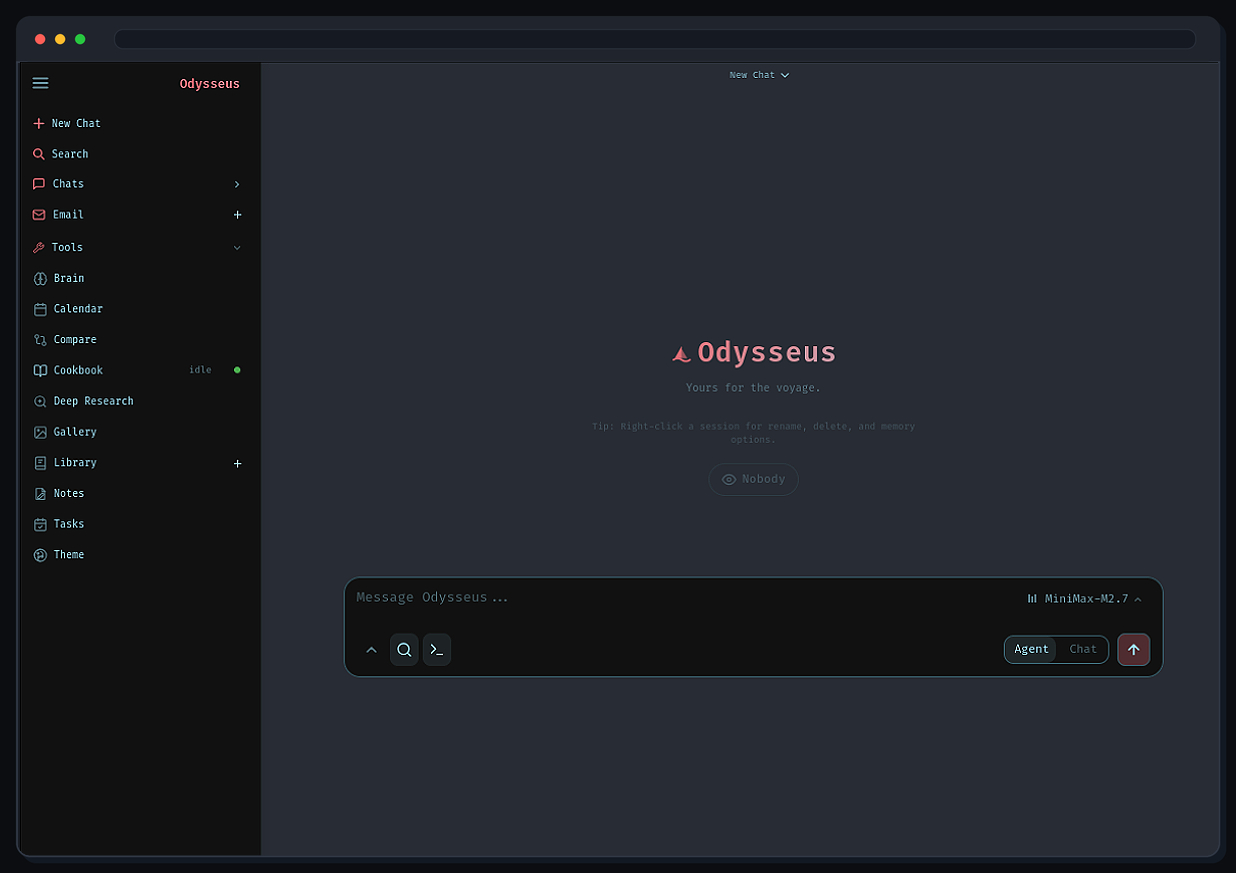
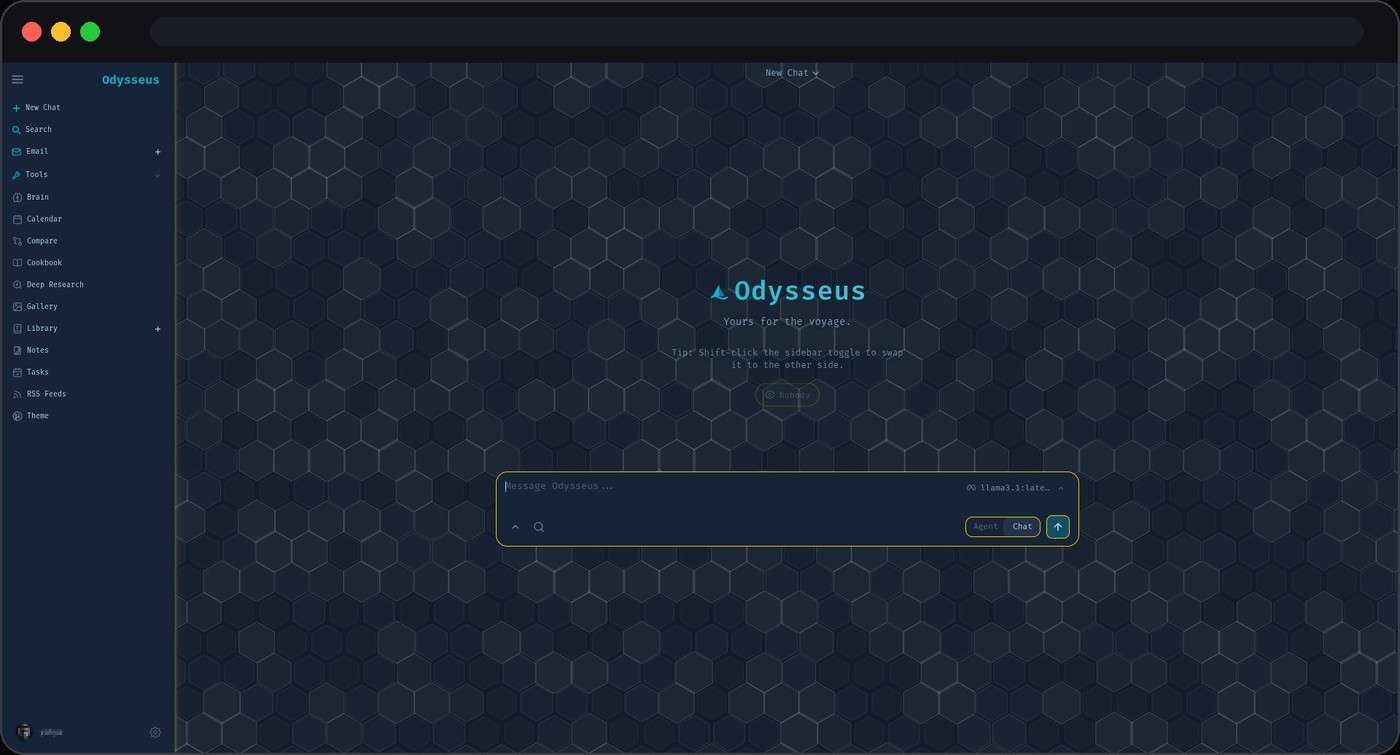
fix(ui): improve welcome-screen text contrast, refresh README screenshot and features
welcome-sub/welcome-tip/welcome-version relied on flat opacity (as low as
0.2), which washed out to unreadable against busy background patterns like
the hex grid. Replaced with color-mix against --fg plus a text-shadow halo
derived from --bg, so contrast holds regardless of the active theme/pattern.

Also refreshes the README screenshot (Navyseal theme, current sidebar) and
updates the feature list for the provider count, llama.cpp auto-detection,
and background animation count.

diff --git a/static/style.css b/static/style.css
@@ -1943,22 +1943,23 @@ body.bg-pattern-sparkles {
     }
     #welcome-screen .welcome-sub {
       font-size:0.85rem;
-      color:color-mix(in srgb, var(--fg) 60%, transparent);
-      opacity:0.6;
+      color:color-mix(in srgb, var(--fg) 65%, transparent);
+      text-shadow: 0 0 6px var(--bg), 0 0 14px var(--bg);
       line-height:1.5;
       max-width:300px;
     }
     #welcome-screen .welcome-version {
       font-size:0.7rem;
-      opacity:0.25;
+      color:color-mix(in srgb, var(--fg) 45%, transparent);
+      text-shadow: 0 0 6px var(--bg), 0 0 14px var(--bg);
       margin-top:12px;
       pointer-events:none;
       user-select:none;
     }
     #welcome-screen .welcome-tip {
       font-size:0.75rem;
-      color:var(--fg);
-      opacity:0.2;
+      color:color-mix(in srgb, var(--fg) 55%, transparent);
+      text-shadow: 0 0 6px var(--bg), 0 0 14px var(--bg);
       margin-top:24px;
       max-width:320px;
       line-height:1.4;

diff --git a/README.md b/README.md
@@ -40,15 +40,15 @@ Native installs, GPU notes, Windows/macOS instructions, HTTPS, and configuration
 
 ## Features
 
-- **Chat + Agents** — local/API models, tools, MCP, files, shell, skills, and memory.
-- **Cookbook** — hardware-aware model recommendations, downloads, and serving.
+- **Chat + Agents** — 19+ providers out of the box (Anthropic, OpenAI, DeepSeek, Kimi/Moonshot, OpenRouter, Ollama Cloud, Groq, Mistral, Together AI, Fireworks, Gemini, xAI Grok, Z.AI, NVIDIA, OpenCode Zen/Go, and more), plus subscription bridges for GitHub Copilot and ChatGPT. Tool-using agent with MCP, files, shell, skills, and memory.
+- **Cookbook** — hardware-aware model recommendations, downloads, and vLLM/llama.cpp serving, with llama.cpp auto-detection.
 - **Deep Research** — multi-step web research with source reading, category-aware formatting, and report generation.
 - **RSS Feed Reader** — 3-pane feed reader with nested groups, AI summaries, full-content extraction, OPML import/export, and YouTube channel support.
 - **Compare** — blind side-by-side model testing and synthesis.
 - **Documents** — writing-first editor with AI edits, suggestions, Markdown, HTML, CSV, and syntax highlighting.
 - **Email** — IMAP/SMTP inbox with triage, tags, summaries, reminders, and reply drafts.
 - **Notes, Tasks + Calendar** — reminders, todos, scheduled agent tasks, and CalDAV sync.
-- **Extras** — gallery/image editor, 6 canvas background animations, neon glow theme toggle, user avatars, 10 pluggable web search providers (SearXNG, Brave, Bing, Tavily, Serper, Exa, Firecrawl, and more), presets, sessions, and 2FA.
+- **Extras** — gallery/image editor, 13 canvas background animations (aurora, matrix rain, nebula, hex grid, and more), neon glow theme toggle, user avatars, 10 pluggable web search providers (SearXNG, Brave, Bing, Tavily, Serper, Exa, Firecrawl, and more), presets, sessions, and 2FA.
 
 ## Demo
 
